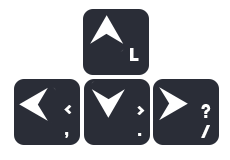
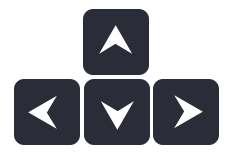
change arrow keys

diff --git a/dist/main.js b/dist/main.js
@@ -154,7 +154,7 @@ eval("__webpack_require__.r(__webpack_exports__);\n/* harmony import */ var _gam
 /***/ (function(module, __webpack_exports__, __webpack_require__) {
 
 "use strict";
-eval("__webpack_require__.r(__webpack_exports__);\n/* harmony export (binding) */ __webpack_require__.d(__webpack_exports__, \"default\", function() { return InputHandler; });\nclass InputHandler {\n  constructor(staticA, game) {\n    this.keys = {\n      67: false,\n      88: false,\n      90: false\n    }\n    this.keysColor = {\n      67: 'blue',\n      88: 'purple',\n      90: 'navy'\n    }\n    document.addEventListener(\"keydown\", event => {\n      switch (event.keyCode) {\n        case 188:\n          staticA.pressDown(\"left\");\n          if (this.keys[67] ^ this.keys[88] ^ this.keys[90]) {\n            game.checkTarget(\"left\", this.keys);\n          }\n          break; \n        case 76:\n          staticA.pressDown(\"up\");\n          if (this.keys[67] ^ this.keys[88] ^ this.keys[90]) {\n            game.checkTarget(\"up\", this.keys);\n          }\n          break; \n        case 190:\n          staticA.pressDown(\"down\");\n          if (this.keys[67] ^ this.keys[88] ^ this.keys[90]) {\n            game.checkTarget(\"down\", this.keys);\n          }\n          break; \n        case 191:\n          staticA.pressDown(\"right\");\n          if (this.keys[67] ^ this.keys[88] ^ this.keys[90]) {\n            game.checkTarget(\"right\", this.keys);\n          }\n          break;\n        case 67:\n          this.keys[67] = true;\n          staticA.pressDownColor(\"blue\");\n          staticA.changeCurrentColor('blue');\n          break;\n        case 88:\n          this.keys[88] = true;\n          staticA.pressDownColor(\"purple\");\n          staticA.changeCurrentColor('purple');\n          break;\n        case 90:\n          this.keys[90] = true;\n          staticA.pressDownColor(\"navy\");\n          staticA.changeCurrentColor('navy');\n          break;\n        case 32:\n          game.pause();\n          game.music.toggleSong()\n          break;\n      }\n    })\n    document.addEventListener(\"keyup\", event => {\n      switch (event.keyCode) {\n        case 188:\n          staticA.pressUp(\"left\");\n          break; \n        case 76:\n          staticA.pressUp(\"up\");\n          break; \n        case 190:\n          staticA.pressUp(\"down\");\n          break; \n        case 191:\n          staticA.pressUp(\"right\")\n          break; \n        case 67:\n          this.keys[67] = false;\n          break;\n        case 88:\n          this.keys[88] = false;\n          break;\n        case 90:\n          this.keys[90] = false;\n          break;\n      }\n      if (this.keys[67] ^ this.keys[88] ^ this.keys[90]) {\n        for (let color in this.keys) {\n          if (this.keys[color]) {\n            staticA.changeCurrentColor(this.keysColor[color]);\n            staticA.pressUp();\n            break;\n          }\n        }\n      }\n      if (!this.keys[67] && !this.keys[88] && !this.keys[90]) {\n        staticA.changeCurrentColor(false);        \n        staticA.pressUp(\"all\");\n      }\n    })\n  }\n}\n\n//# sourceURL=webpack:///./src/input.js?");
+eval("__webpack_require__.r(__webpack_exports__);\n/* harmony export (binding) */ __webpack_require__.d(__webpack_exports__, \"default\", function() { return InputHandler; });\nclass InputHandler {\n  constructor(staticA, game) {\n    this.keys = {\n      67: false,\n      88: false,\n      90: false\n    }\n    this.keysColor = {\n      67: 'blue',\n      88: 'purple',\n      90: 'navy'\n    }\n    document.addEventListener(\"keydown\", event => {\n      switch (event.keyCode) {\n        case 37:\n          event.preventDefault();\n          staticA.pressDown(\"left\");\n          if (this.keys[67] ^ this.keys[88] ^ this.keys[90]) {\n            game.checkTarget(\"left\", this.keys);\n          }\n          break; \n        case 38:\n          event.preventDefault();\n          staticA.pressDown(\"up\");\n          if (this.keys[67] ^ this.keys[88] ^ this.keys[90]) {\n            game.checkTarget(\"up\", this.keys);\n          }\n          break; \n        case 40:\n          event.preventDefault();\n          staticA.pressDown(\"down\");\n          if (this.keys[67] ^ this.keys[88] ^ this.keys[90]) {\n            game.checkTarget(\"down\", this.keys);\n          }\n          break; \n        case 39:\n          event.preventDefault();\n          staticA.pressDown(\"right\");\n          if (this.keys[67] ^ this.keys[88] ^ this.keys[90]) {\n            game.checkTarget(\"right\", this.keys);\n          }\n          break;\n        case 67:\n          event.preventDefault();\n          this.keys[67] = true;\n          staticA.pressDownColor(\"blue\");\n          staticA.changeCurrentColor('blue');\n          break;\n        case 88:\n          event.preventDefault();\n          this.keys[88] = true;\n          staticA.pressDownColor(\"purple\");\n          staticA.changeCurrentColor('purple');\n          break;\n        case 90:\n          event.preventDefault();\n          this.keys[90] = true;\n          staticA.pressDownColor(\"navy\");\n          staticA.changeCurrentColor('navy');\n          break;\n        case 32:\n          event.preventDefault();\n          game.pause();\n          game.music.toggleSong()\n          break;\n      }\n    })\n    document.addEventListener(\"keyup\", event => {\n      switch (event.keyCode) {\n        case 37:\n          staticA.pressUp(\"left\");\n          break; \n        case 38:\n          staticA.pressUp(\"up\");\n          break; \n        case 40:\n          staticA.pressUp(\"down\");\n          break; \n        case 39:\n          staticA.pressUp(\"right\")\n          break; \n        case 67:\n          this.keys[67] = false;\n          break;\n        case 88:\n          this.keys[88] = false;\n          break;\n        case 90:\n          this.keys[90] = false;\n          break;\n      }\n      if (this.keys[67] ^ this.keys[88] ^ this.keys[90]) {\n        for (let color in this.keys) {\n          if (this.keys[color]) {\n            staticA.changeCurrentColor(this.keysColor[color]);\n            staticA.pressUp();\n            break;\n          }\n        }\n      }\n      if (!this.keys[67] && !this.keys[88] && !this.keys[90]) {\n        staticA.changeCurrentColor(false);        \n        staticA.pressUp(\"all\");\n      }\n    })\n  }\n}\n\n//# sourceURL=webpack:///./src/input.js?");
 
 /***/ }),
 

diff --git a/src/input.js b/src/input.js
@@ -12,46 +12,54 @@ export default class InputHandler {
     }
     document.addEventListener("keydown", event => {
       switch (event.keyCode) {
-        case 188:
+        case 37:
+          event.preventDefault();
           staticA.pressDown("left");
           if (this.keys[67] ^ this.keys[88] ^ this.keys[90]) {
             game.checkTarget("left", this.keys);
           }
           break; 
-        case 76:
+        case 38:
+          event.preventDefault();
           staticA.pressDown("up");
           if (this.keys[67] ^ this.keys[88] ^ this.keys[90]) {
             game.checkTarget("up", this.keys);
           }
           break; 
-        case 190:
+        case 40:
+          event.preventDefault();
           staticA.pressDown("down");
           if (this.keys[67] ^ this.keys[88] ^ this.keys[90]) {
             game.checkTarget("down", this.keys);
           }
           break; 
-        case 191:
+        case 39:
+          event.preventDefault();
           staticA.pressDown("right");
           if (this.keys[67] ^ this.keys[88] ^ this.keys[90]) {
             game.checkTarget("right", this.keys);
           }
           break;
         case 67:
+          event.preventDefault();
           this.keys[67] = true;
           staticA.pressDownColor("blue");
           staticA.changeCurrentColor('blue');
           break;
         case 88:
+          event.preventDefault();
           this.keys[88] = true;
           staticA.pressDownColor("purple");
           staticA.changeCurrentColor('purple');
           break;
         case 90:
+          event.preventDefault();
           this.keys[90] = true;
           staticA.pressDownColor("navy");
           staticA.changeCurrentColor('navy');
           break;
         case 32:
+          event.preventDefault();
           game.pause();
           game.music.toggleSong()
           break;
@@ -59,16 +67,16 @@ export default class InputHandler {
     })
     document.addEventListener("keyup", event => {
       switch (event.keyCode) {
-        case 188:
+        case 37:
           staticA.pressUp("left");
           break; 
-        case 76:
+        case 38:
           staticA.pressUp("up");
           break; 
-        case 190:
+        case 40:
           staticA.pressUp("down");
           break; 
-        case 191:
+        case 39:
           staticA.pressUp("right")
           break; 
         case 67:

diff --git a/assets/css/styles.css b/assets/css/styles.css
@@ -4,6 +4,7 @@ body {
   left: 0;
   display: flex;
   color: white;
+  background-color: black;
 }
 
 .main {
@@ -23,6 +24,10 @@ body {
   object-fit: cover;
 }
 
+.fab:hover,
+.fas:hover {
+  color: lightgrey;
+} 
 
 .background {
   z-index: 1;
